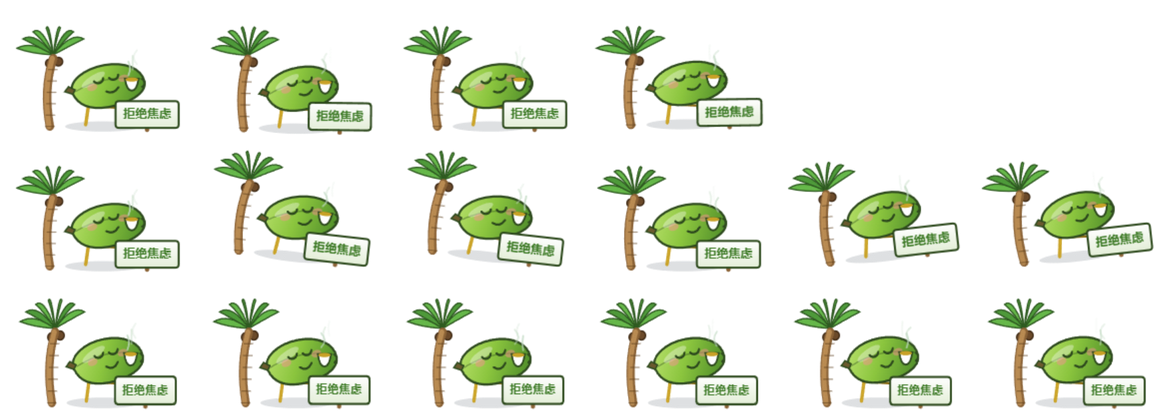
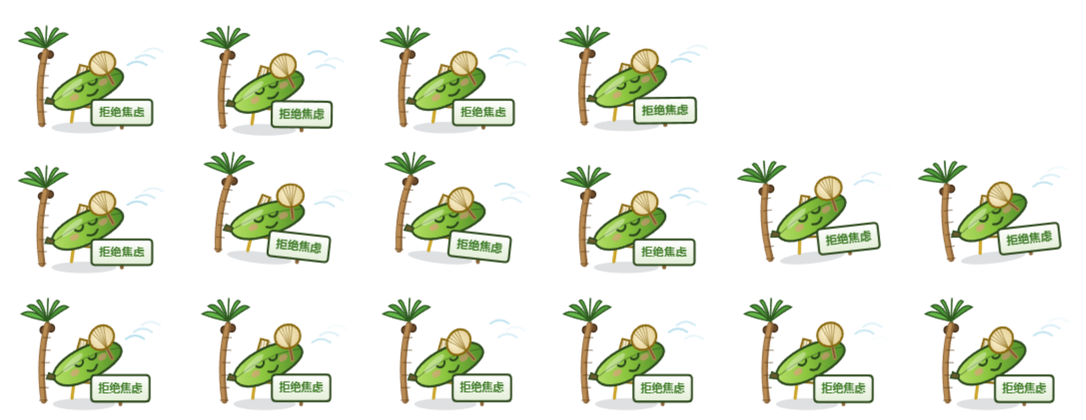
「拒绝焦虑」重画 + 修宽幅皮肤被裁
画面（按用户要求）：
- 绿香蕉瘦身（厚度约 34 -> 22）
- 从平躺改成斜躺（旋转 -0.34 -> -0.52）
- 手里的茶杯换成蒲扇，正在扇风，旁边飘风线
- 椰子树 / 躺椅 / 牌子整体收小，构图更紧凑

真正的问题在程序侧：角色缩放原来是
  const s = Math.min(w / this.fit, h / this.fit);
fit 是单个数字（按正方形算），所以宽幅皮肤（树 + 躺椅）横向会
超出画布被裁 —— 这就是「显示不全」的根因。
改成皮肤按帧的实际宽高比算：
  const drawW = frame.w * (310 / frame.h);
  s = Math.min(w / Math.max(this.fit, drawW), h / this.fit);

实测：香蕉左右留白从贴边(0)变成 76/73 px，财神爷、企鹅、海盗狗
也都留白充足，全部不再被裁。

diff --git a/build/make-skins.js b/build/make-skins.js
@@ -1643,157 +1643,155 @@ function drawCaishen(ctx, q, p, kind) {
 }
 
 /* ============================================================ ⑫ 拒绝焦虑 */
-/* 绿香蕉躺在椰子树下的躺椅上悠闲喝茶 */
+/* 绿香蕉斜躺在椰子树下的躺椅上，摇着蒲扇扇风。
+   构图刻意收紧凑：程序是按「帧高」缩放的，帧太宽会横向溢出去被裁。 */
 function drawBanana(ctx, q, p, kind) {
   const LINE = '#2E4A1E';
   const s1 = Math.sin(p * TAU);
-  /* 悠闲的呼吸起伏，比别的形象慢 */
-  const breath = Math.sin(p * TAU) * 1.2;
+  const breath = Math.sin(p * TAU) * 1.1;
+  const breeze = Math.sin(p * TAU * 2);
   const sip = kind === 'cheer' ? 1 : kind === 'dance' ? 0.6 : 0.25;
-  shadow(ctx, 54, 44);
+  shadow(ctx, 50, 34);
 
-  /* ---------- 椰子树（左后方） ---------- */
-  /* 树叶：从树顶往四周散开 */
-  const topX = -58, topY = -30;
-  for (let i = 0; i < 7; i++) {
-    const a = -2.9 + i * 0.38;
-    const lx = topX + Math.cos(a) * 44, ly = topY + Math.sin(a) * 32;
+  /* ---------- 椰子树（左后，收小） ---------- */
+  const topX = -40, topY = -34;
+  for (let i = 0; i < 6; i++) {
+    const a = -2.8 + i * 0.42;
+    const lx = topX + Math.cos(a) * 30, ly = topY + Math.sin(a) * 22;
     ctx.beginPath();
     ctx.moveTo(topX, topY);
-    ctx.quadraticCurveTo(topX + Math.cos(a) * 26, topY + Math.sin(a) * 30 - 10, lx, ly);
-    ctx.quadraticCurveTo(topX + Math.cos(a) * 26, topY + Math.sin(a) * 30 + 6, topX, topY);
+    ctx.quadraticCurveTo(topX + Math.cos(a) * 18, topY + Math.sin(a) * 21 - 7, lx, ly);
+    ctx.quadraticCurveTo(topX + Math.cos(a) * 18, topY + Math.sin(a) * 21 + 4, topX, topY);
     ctx.closePath();
     ctx.fillStyle = i % 2 ? '#4E9A3A' : '#66B84A';
     ctx.fill();
-    ctx.lineWidth = 1.6; ctx.strokeStyle = '#2E5A20'; ctx.stroke();
+    ctx.lineWidth = 1.5; ctx.strokeStyle = '#2E5A20'; ctx.stroke();
   }
-  /* 椰子 */
   ctx.fillStyle = '#6B4A2A';
-  [[-52, -22], [-62, -20]].forEach(function (c) {
-    ctx.beginPath(); ctx.arc(c[0], c[1], 5, 0, TAU); ctx.fill();
-    ctx.lineWidth = 1.6; ctx.strokeStyle = '#3A2510'; ctx.stroke();
+  [[-36, -27], [-44, -25]].forEach(function (c) {
+    ctx.beginPath(); ctx.arc(c[0], c[1], 3.8, 0, TAU); ctx.fill();
+    ctx.lineWidth = 1.4; ctx.strokeStyle = '#3A2510'; ctx.stroke();
   });
-  /* 树干 */
-  ctx.strokeStyle = '#8A6236'; ctx.lineWidth = 10; ctx.lineCap = 'round';
-  ctx.beginPath(); ctx.moveTo(-62, 54); ctx.quadraticCurveTo(-70, 10, topX, topY + 4); ctx.stroke();
-  ctx.strokeStyle = '#B98B52'; ctx.lineWidth = 6;
-  ctx.beginPath(); ctx.moveTo(-63, 54); ctx.quadraticCurveTo(-70, 10, topX - 1, topY + 4); ctx.stroke();
-  /* 树干上的环纹 */
-  ctx.strokeStyle = 'rgba(90,60,25,.55)'; ctx.lineWidth = 1.4;
+  ctx.strokeStyle = '#8A6236'; ctx.lineWidth = 7; ctx.lineCap = 'round';
+  ctx.beginPath(); ctx.moveTo(-44, 46); ctx.quadraticCurveTo(-50, 4, topX, topY + 4); ctx.stroke();
+  ctx.strokeStyle = '#B98B52'; ctx.lineWidth = 4;
+  ctx.beginPath(); ctx.moveTo(-45, 46); ctx.quadraticCurveTo(-50, 4, topX - 1, topY + 4); ctx.stroke();
+  ctx.strokeStyle = 'rgba(90,60,25,.55)'; ctx.lineWidth = 1.2;
   for (let i = 0; i < 6; i++) {
     const t = i / 6;
-    const tx = -62 + (topX + 62) * t, ty = 54 + (topY + 4 - 54) * t;
-    ctx.beginPath(); ctx.moveTo(tx - 5, ty); ctx.lineTo(tx + 5, ty); ctx.stroke();
+    const tx = -44 + (topX + 44) * t, ty = 46 + (topY + 4 - 46) * t;
+    ctx.beginPath(); ctx.moveTo(tx - 4, ty); ctx.lineTo(tx + 4, ty); ctx.stroke();
   }
 
-  /* ---------- 躺椅 ---------- */
-  /* 椅腿 */
-  ctx.strokeStyle = '#C9A227'; ctx.lineWidth = 4; ctx.lineCap = 'round';
-  ctx.beginPath(); ctx.moveTo(-16, 24); ctx.lineTo(-20, 52); ctx.stroke();
-  ctx.beginPath(); ctx.moveTo(44, 30); ctx.lineTo(48, 54); ctx.stroke();
-  /* 座面（斜躺） */
+  /* ---------- 躺椅（斜靠背） ---------- */
+  ctx.strokeStyle = '#C9A227'; ctx.lineWidth = 3.4; ctx.lineCap = 'round';
+  ctx.beginPath(); ctx.moveTo(-10, 22); ctx.lineTo(-13, 44); ctx.stroke();
+  ctx.beginPath(); ctx.moveTo(34, 28); ctx.lineTo(37, 46); ctx.stroke();
+  /* 座面 */
   ctx.beginPath();
-  ctx.moveTo(-22, 22); ctx.lineTo(30, 30);
-  ctx.lineTo(46, 34); ctx.lineTo(-18, 30);
+  ctx.moveTo(-15, 20); ctx.lineTo(24, 27); ctx.lineTo(36, 31); ctx.lineTo(-12, 27);
   ctx.closePath();
-  const cg = ctx.createLinearGradient(0, 20, 40, 36);
+  const cg = ctx.createLinearGradient(0, 18, 32, 33);
   cg.addColorStop(0, '#FFF7E4'); cg.addColorStop(1, '#E8D9B0');
   ctx.fillStyle = cg; ctx.fill();
-  ctx.lineWidth = 2.4; ctx.strokeStyle = '#8A6A12'; ctx.stroke();
-  /* 靠背 */
+  ctx.lineWidth = 2.2; ctx.strokeStyle = '#8A6A12'; ctx.stroke();
+  /* 靠背（更斜） */
   ctx.beginPath();
-  ctx.moveTo(-22, 22); ctx.lineTo(-8, -14);
-  ctx.lineTo(2, -12); ctx.lineTo(-10, 24);
+  ctx.moveTo(-15, 20); ctx.lineTo(-4, -16);
+  ctx.lineTo(4, -14); ctx.lineTo(-5, 22);
   ctx.closePath();
   ctx.fillStyle = '#FFF7E4'; ctx.fill();
-  ctx.lineWidth = 2.4; ctx.strokeStyle = '#8A6A12'; ctx.stroke();
-  /* 靠背上的条纹 */
-  ctx.strokeStyle = 'rgba(138,106,18,.5)'; ctx.lineWidth = 1.4;
-  [-16, -12, -8, -4].forEach(function (o) {
-    ctx.beginPath(); ctx.moveTo(o, 20); ctx.lineTo(o + 11, -11); ctx.stroke();
+  ctx.lineWidth = 2.2; ctx.strokeStyle = '#8A6A12'; ctx.stroke();
+  ctx.strokeStyle = 'rgba(138,106,18,.5)'; ctx.lineWidth = 1.3;
+  [-11, -8, -5, -2].forEach(function (o) {
+    ctx.beginPath(); ctx.moveTo(o, 18); ctx.lineTo(o + 8, -13); ctx.stroke();
   });
 
-  /* ---------- 躺在椅子上的绿香蕉 ---------- */
+  /* ---------- 斜躺的绿香蕉（瘦身版） ---------- */
   ctx.save();
-  ctx.translate(6, 6 + breath);
-  ctx.rotate(-0.34);
-  const bg = ctx.createLinearGradient(-40, -22, 34, 30);
+  ctx.translate(4, 8 + breath);
+  ctx.rotate(-0.52);                    // 更斜
+  const bg = ctx.createLinearGradient(-38, -14, 34, 20);
   bg.addColorStop(0, '#B7E06A'); bg.addColorStop(0.45, '#8CC63F'); bg.addColorStop(1, '#4E8C2A');
   ctx.fillStyle = bg;
   ctx.beginPath();
-  ctx.moveTo(-42, -4);
-  ctx.bezierCurveTo(-44, -20, -20, -28, 4, -24);
-  ctx.bezierCurveTo(28, -20, 44, -6, 42, 10);
-  ctx.bezierCurveTo(40, 24, 16, 28, -8, 24);
-  ctx.bezierCurveTo(-30, 20, -40, 10, -42, -4);
+  ctx.moveTo(-40, -3);
+  ctx.bezierCurveTo(-41, -14, -18, -18, 2, -16);   // 上缘（变薄）
+  ctx.bezierCurveTo(24, -14, 40, -4, 39, 6);
+  ctx.bezierCurveTo(38, 15, 16, 18, -6, 16);       // 下缘
+  ctx.bezierCurveTo(-28, 14, -39, 6, -40, -3);
   ctx.closePath(); ctx.fill();
-  ctx.lineWidth = 2.6; ctx.strokeStyle = LINE; ctx.stroke();
-  /* 棱线 + 高光 */
-  ctx.strokeStyle = 'rgba(46,74,30,.4)'; ctx.lineWidth = 1.6;
-  ctx.beginPath(); ctx.moveTo(-38, -6); ctx.quadraticCurveTo(0, -14, 40, 6); ctx.stroke();
+  ctx.lineWidth = 2.4; ctx.strokeStyle = LINE; ctx.stroke();
+  ctx.strokeStyle = 'rgba(46,74,30,.4)'; ctx.lineWidth = 1.4;
+  ctx.beginPath(); ctx.moveTo(-36, -5); ctx.quadraticCurveTo(0, -10, 37, 4); ctx.stroke();
   ctx.fillStyle = 'rgba(255,255,255,.35)';
-  ctx.beginPath(); ctx.ellipse(-14, -12, 16, 5, -0.24, 0, TAU); ctx.fill();
+  ctx.beginPath(); ctx.ellipse(-14, -8, 14, 3.6, -0.2, 0, TAU); ctx.fill();
   /* 果蒂 */
   ctx.fillStyle = '#6B5A2E';
   ctx.beginPath();
-  ctx.moveTo(-42, -4); ctx.lineTo(-50, -10); ctx.lineTo(-44, -14); ctx.lineTo(-38, -8);
+  ctx.moveTo(-40, -3); ctx.lineTo(-47, -8); ctx.lineTo(-42, -12); ctx.lineTo(-37, -6);
   ctx.closePath(); ctx.fill();
-  ctx.lineWidth = 1.8; ctx.strokeStyle = LINE; ctx.stroke();
+  ctx.lineWidth = 1.6; ctx.strokeStyle = LINE; ctx.stroke();
 
-  /* 脸：惬意 —— 闭眼弯月 + 小微笑 */
-  ctx.strokeStyle = '#2E4A1E'; ctx.lineWidth = 2.6; ctx.lineCap = 'round';
-  ctx.beginPath(); ctx.arc(-8, -12, 6, 0.12 * Math.PI, 0.88 * Math.PI); ctx.stroke();
-  ctx.beginPath(); ctx.arc(10, -10, 6, 0.12 * Math.PI, 0.88 * Math.PI); ctx.stroke();
-  /* 腮红 */
+  /* 惬意的脸 */
+  ctx.strokeStyle = '#2E4A1E'; ctx.lineWidth = 2.4; ctx.lineCap = 'round';
+  ctx.beginPath(); ctx.arc(-8, -6, 5, 0.12 * Math.PI, 0.88 * Math.PI); ctx.stroke();
+  ctx.beginPath(); ctx.arc(8, -5, 5, 0.12 * Math.PI, 0.88 * Math.PI); ctx.stroke();
   ctx.fillStyle = 'rgba(255,140,150,.45)';
-  ctx.beginPath(); ctx.ellipse(-18, -4, 6, 4, 0, 0, TAU); ctx.fill();
-  ctx.beginPath(); ctx.ellipse(20, -2, 6, 4, 0, 0, TAU); ctx.fill();
-  /* 微笑 */
+  ctx.beginPath(); ctx.ellipse(-17, 2, 5, 3.2, 0, 0, TAU); ctx.fill();
+  ctx.beginPath(); ctx.ellipse(17, 3, 5, 3.2, 0, 0, TAU); ctx.fill();
   ctx.beginPath();
-  ctx.moveTo(-4, 6); ctx.quadraticCurveTo(3, 12 + sip * 2, 11, 6);
-  ctx.lineWidth = 2.6; ctx.stroke();
+  ctx.moveTo(-4, 7); ctx.quadraticCurveTo(2, 11 + sip * 2, 8, 7);
+  ctx.lineWidth = 2.4; ctx.stroke();
   ctx.restore();
 
-  /* ---------- 手里的茶杯 + 热气 ---------- */
-  const cupX = 34, cupY = 4 + breath;
-  ctx.fillStyle = '#FFFFFF';
-  ctx.beginPath();
-  ctx.moveTo(cupX - 8, cupY - 6);
-  ctx.lineTo(cupX + 8, cupY - 6);
-  ctx.quadraticCurveTo(cupX + 6, cupY + 8, cupX, cupY + 8);
-  ctx.quadraticCurveTo(cupX - 6, cupY + 8, cupX - 8, cupY - 6);
-  ctx.closePath(); ctx.fill();
-  ctx.lineWidth = 2.2; ctx.strokeStyle = LINE; ctx.stroke();
-  /* 茶汤 */
-  ctx.fillStyle = '#C9A227';
-  ctx.beginPath(); ctx.ellipse(cupX, cupY - 5, 7.4, 2.4, 0, 0, TAU); ctx.fill();
-  /* 杯柄 */
-  ctx.beginPath(); ctx.arc(cupX + 10, cupY - 1, 5, -1.1, 1.1);
-  ctx.lineWidth = 2.4; ctx.strokeStyle = LINE; ctx.stroke();
-  /* 热气 */
+  /* ---------- 手里的蒲扇（正在扇风） ---------- */
+  const fanX = 30, fanY = 2 + breath;
+  ctx.save();
+  ctx.translate(fanX, fanY);
+  ctx.rotate(-0.5 + breeze * 0.32);
+  /* 扇柄 */
+  ctx.strokeStyle = '#B98B52'; ctx.lineWidth = 4; ctx.lineCap = 'round';
+  ctx.beginPath(); ctx.moveTo(0, 2); ctx.lineTo(0, -10); ctx.stroke();
+  ctx.lineWidth = 1.4; ctx.strokeStyle = '#6B4A2A';
+  ctx.beginPath(); ctx.moveTo(0, 2); ctx.lineTo(0, -10); ctx.stroke();
+  /* 扇面 */
+  ctx.beginPath(); ctx.ellipse(0, -22, 14, 12, 0, 0, TAU);
+  const fg = ctx.createRadialGradient(-4, -26, 2, 0, -22, 16);
+  fg.addColorStop(0, '#FBF0CC'); fg.addColorStop(1, '#E3CE94');
+  ctx.fillStyle = fg; ctx.fill();
+  ctx.lineWidth = 2.2; ctx.strokeStyle = '#8A6A12'; ctx.stroke();
+  /* 竹骨 */
+  ctx.strokeStyle = 'rgba(138,106,18,.55)'; ctx.lineWidth = 1.2;
+  [-8, -4, 0, 4, 8].forEach(function (dx) {
+    ctx.beginPath(); ctx.moveTo(0, -10); ctx.lineTo(dx, -33); ctx.stroke();
+  });
+  ctx.restore();
+
+  /* ---------- 风：几道弧线飘出去 ---------- */
   for (let i = 0; i < 3; i++) {
-    const t = (p * 1.1 + i * 0.33) % 1;
-    ctx.globalAlpha = (1 - t) * 0.75;
-    ctx.strokeStyle = '#BFD8C0'; ctx.lineWidth = 2.2; ctx.lineCap = 'round';
+    const t = (p * 1.4 + i * 0.33) % 1;
+    ctx.globalAlpha = (1 - t) * 0.7;
+    ctx.strokeStyle = '#9FD4E8'; ctx.lineWidth = 2.2; ctx.lineCap = 'round';
+    const wx = fanX + 16 + t * 26, wy = fanY - 18 - i * 7 + breeze * 3;
     ctx.beginPath();
-    ctx.moveTo(cupX - 4 + i * 5, cupY - 10 - t * 20);
-    ctx.quadraticCurveTo(cupX + Math.sin(t * 6 + i) * 5, cupY - 18 - t * 20, cupX - 4 + i * 5, cupY - 26 - t * 20);
+    ctx.moveTo(wx, wy);
+    ctx.quadraticCurveTo(wx + 10, wy - 7, wx + 20, wy);
     ctx.stroke();
   }
   ctx.globalAlpha = 1;
 
-  /* ---------- 「拒绝焦虑」牌子（插在地上） ---------- */
+  /* ---------- 「拒绝焦虑」牌子 ---------- */
   const TEXT = '拒绝焦虑';
-  const FS = 14;
+  const FS = 12;
   ctx.font = '900 ' + FS + 'px "Microsoft YaHei","SimHei",sans-serif';
   const tw = ctx.measureText(TEXT).width;
-  const halfW = tw / 2 + 9, halfH = FS * 0.62 + 7;
-  const boardY = 40 - s1 * 0.5;
-  /* 牌子杆 */
-  ctx.strokeStyle = '#8A6236'; ctx.lineWidth = 5; ctx.lineCap = 'round';
-  ctx.beginPath(); ctx.moveTo(52, boardY + halfH); ctx.lineTo(52, 58); ctx.stroke();
+  const halfW = tw / 2 + 8, halfH = FS * 0.62 + 6;
+  const boardY = 34 - s1 * 0.5;
+  ctx.strokeStyle = '#8A6236'; ctx.lineWidth = 4; ctx.lineCap = 'round';
+  ctx.beginPath(); ctx.moveTo(40, boardY + halfH); ctx.lineTo(40, 50); ctx.stroke();
   ctx.save();
-  ctx.translate(52, boardY);
+  ctx.translate(40, boardY);
   ctx.beginPath();
   const R = 4, W = halfW, H = halfH;
   ctx.moveTo(-W + R, -H);
@@ -1805,7 +1803,7 @@ function drawBanana(ctx, q, p, kind) {
   const sg2 = ctx.createLinearGradient(0, -H, 0, H);
   sg2.addColorStop(0, '#FFFFFF'); sg2.addColorStop(1, '#E4EFD8');
   ctx.fillStyle = sg2; ctx.fill();
-  ctx.lineWidth = 2.4; ctx.strokeStyle = '#2E4A1E'; ctx.stroke();
+  ctx.lineWidth = 2.2; ctx.strokeStyle = '#2E4A1E'; ctx.stroke();
   ctx.fillStyle = '#3E7B27';
   ctx.textAlign = 'center'; ctx.textBaseline = 'middle';
   ctx.fillText(TEXT, 0, 0.5);

diff --git a/app.js b/app.js
@@ -377,7 +377,14 @@
       const t = now / 1000;
       const mood = this.mood;
       const energy = mood === 'dance' ? 1 : mood === 'cheer' ? 0.9 : 0.3;
-      const s = Math.min(w / this.fit, h / this.fit);
+      /* 手绘角色用统一的 fit；皮肤要按帧的实际宽高比算，
+         否则宽幅皮肤（树 + 躺椅那种）横向会超出画布被裁掉。 */
+      let s = Math.min(w / this.fit, h / this.fit);
+      if (skinState.ready && skinState.meta) {
+        const fh2 = skinState.meta.frame.h;
+        const drawW = skinState.meta.frame.w * (310 / fh2);   // 帧在本地坐标下的宽度
+        s = Math.min(w / Math.max(this.fit, drawW), h / this.fit);
+      }
 
       ctx.save();
       /* 主界面：放在画布 94% 高度处（底部留一点，视觉上居中）。
